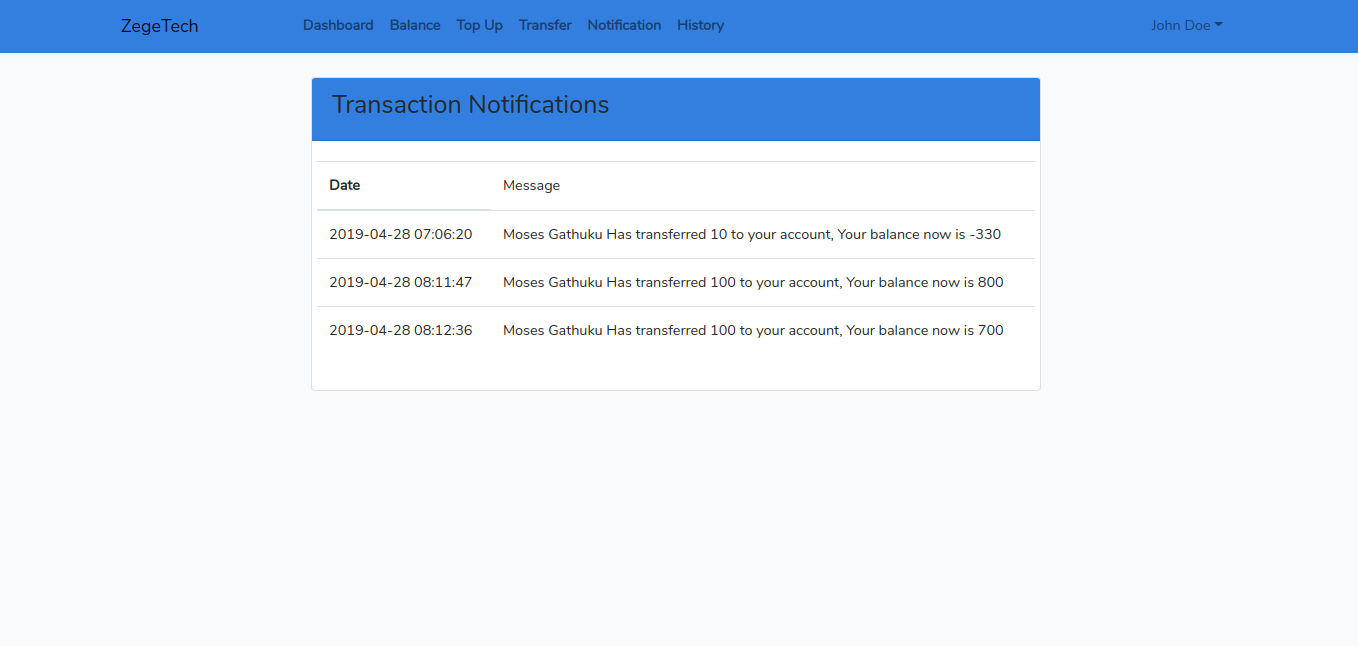
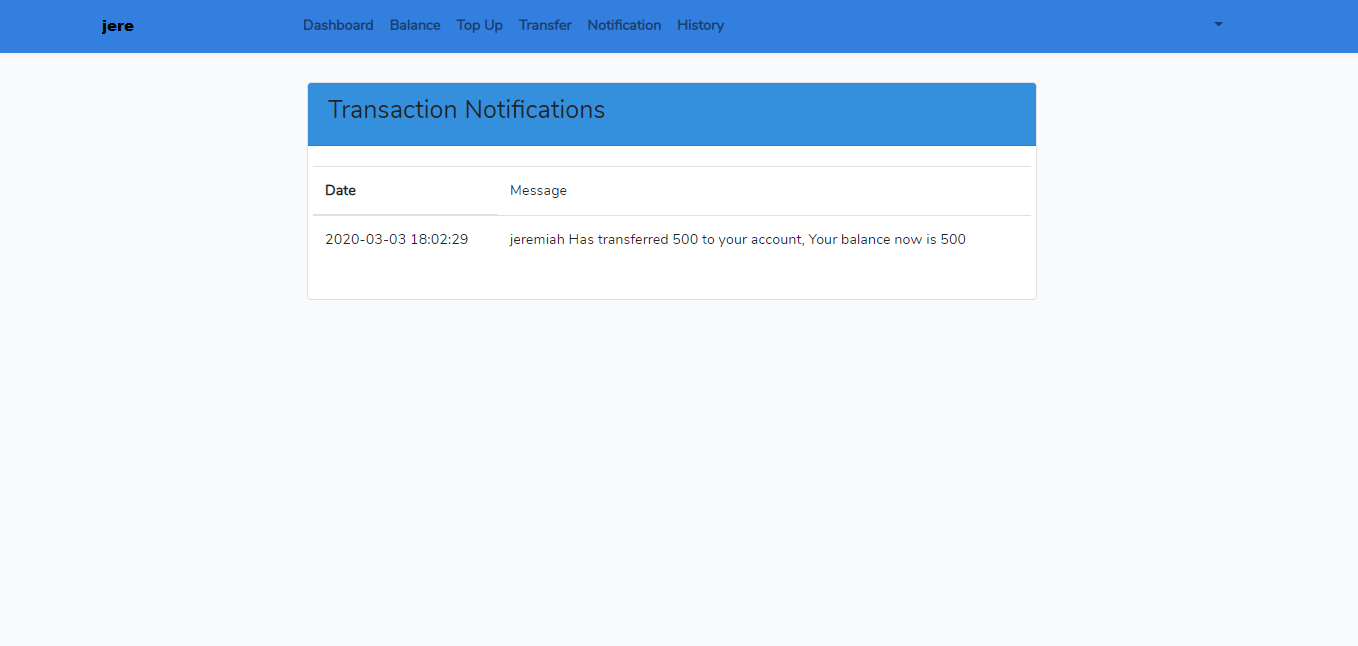
images

diff --git a/resources/views/auth/register.blade.php b/resources/views/auth/register.blade.php
@@ -48,7 +48,7 @@
           @endif
         <div class="card">
             <div class="card-header">
-                <h2 class="mb-2 ">ZEGETECH</h2>
+                <h2 class="mb-2 ">jere</h2>
                 <p>Please enter your user information.</p>
             </div>
             <div class="card-body">
